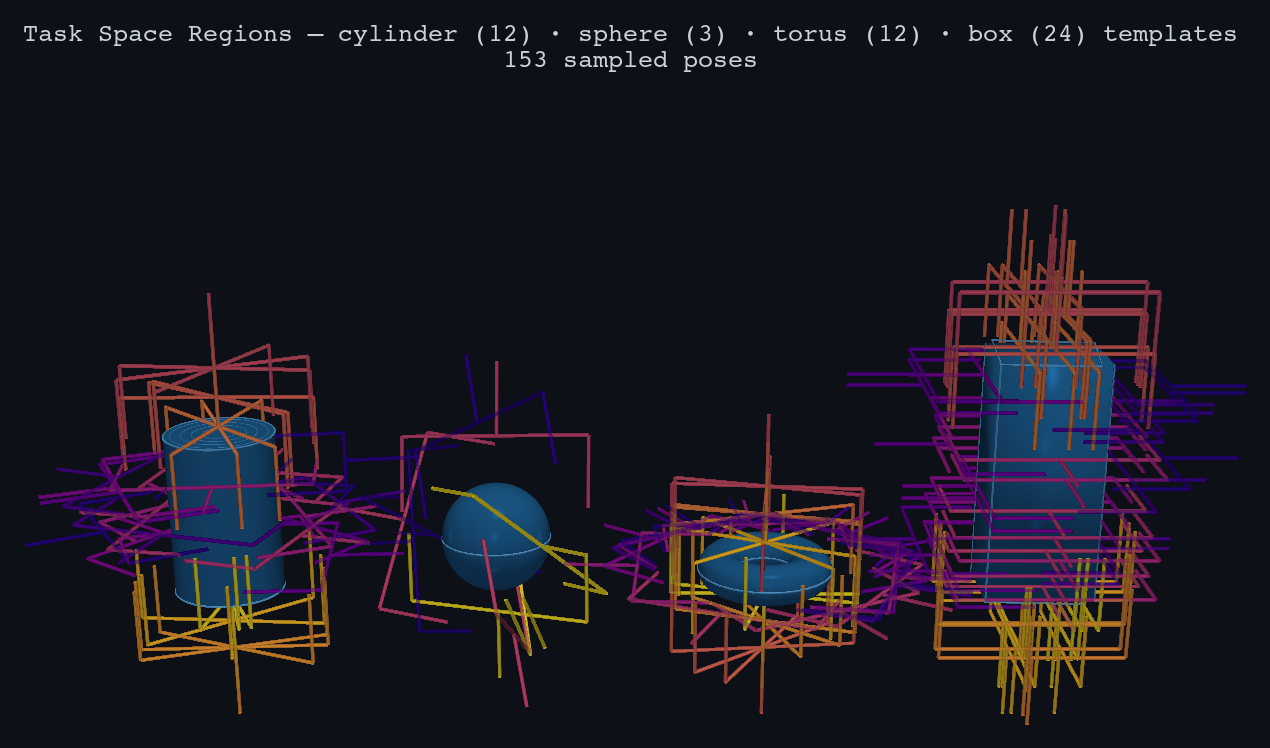
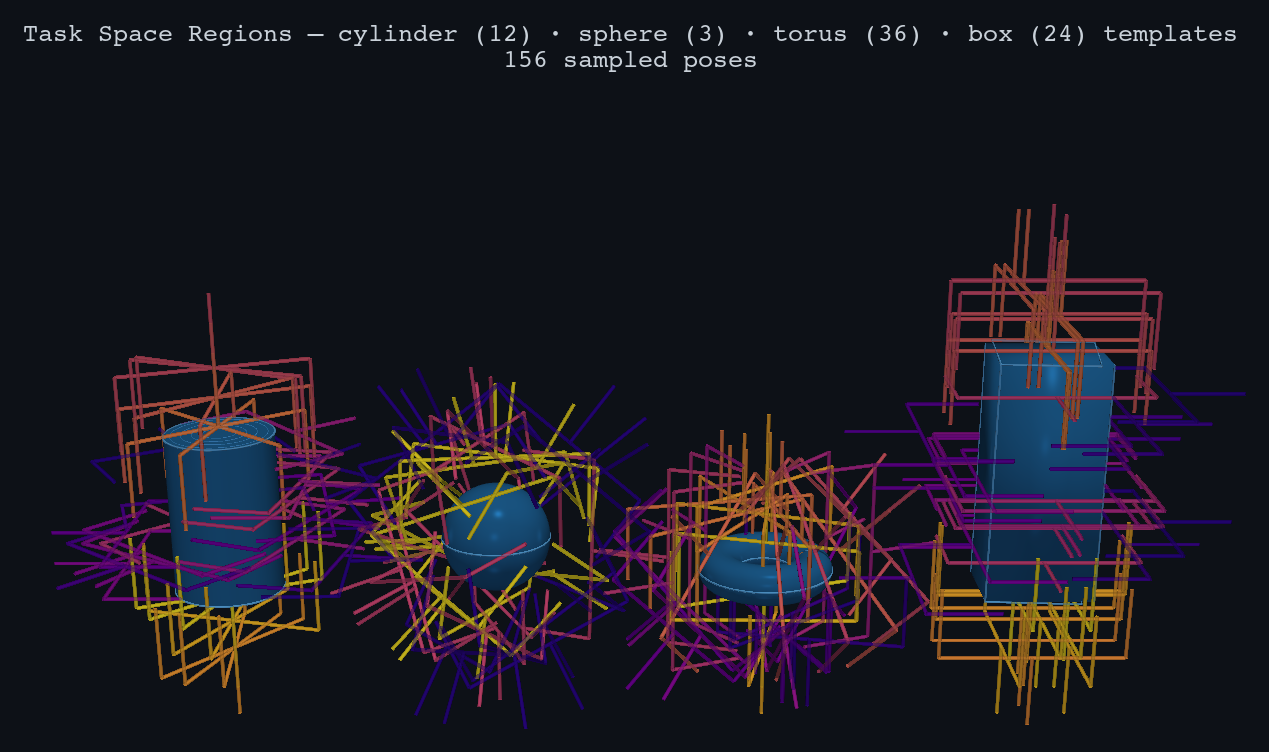
grasp_torus_side: rework depth range to cover full tube cross-section
Depth range now spans from fingertips at the tube centerline (shallowest)
to fingertips at the inner tube surface (deepest), matching the cylinder
grasp philosophy. Palm-hits-outer-surface bound preserved via min().

Returns [] when finger_length <= tube_radius (finger too short to reach
tube centerline from outside).

- d_shallow = tube_radius (fingertips at tube center)
- d_deep    = min(2*tube_radius, finger_length) (inner surface or palm limit)
- Removed clearance from depth bounds (preshape still uses clearance)
- Add guard: return [] if d_shallow >= d_deep
- Add tests pinning both depth endpoints via Tw_e geometry at α=0
- Fix docstrings in parallel_jaw.py and base.py

diff --git a/src/tsr/hands/parallel_jaw.py b/src/tsr/hands/parallel_jaw.py
@@ -720,13 +720,18 @@ class ParallelJawGripper(GripperBase):
             tz =     (r + fl − d) · sin α   (height above equatorial plane)
         z_EE = (−cos α, 0, −sin α)   (points toward tube center)
 
+        Depth range (fingertip distance from tube center = |ro_minor − fl|):
+            depth 1/k : fingertips at the tube center
+            depth k/k : fingertips at the inner tube surface (or palm at outer surface)
+
         Args:
             n_minor:   Discrete approach angles around the tube cross-section
                        (default 5: evenly spaced in [−π/2, +π/2]).
             clearance: Safety buffer [m]. Defaults to 10% of finger_length.
 
         Returns 2*k*n_minor TSRTemplates. Returns [] if preshape ≤ tube
-        diameter. Raises ValueError for invalid geometry.
+        diameter or finger_length ≤ tube_radius (finger too short to reach
+        tube centerline). Raises ValueError for invalid geometry.
         """
         if clearance is None:
             clearance = 0.1 * self.finger_length
@@ -754,8 +759,13 @@ class ParallelJawGripper(GripperBase):
             [angle_range[0], angle_range[1]],  # yaw: full azimuthal freedom
         ])
 
-        approach_max = min(self.finger_length, tube_radius) - clearance
-        depths = np.linspace(clearance, approach_max, max(k, 1))
+        # Start: fingertips at the tube center (requires finger_length >= tube_radius).
+        # End:   fingertips at the inner tube surface, or palm at outer surface.
+        d_shallow = tube_radius
+        d_deep    = min(2 * tube_radius, self.finger_length)
+        if d_shallow >= d_deep:
+            return []   # finger too short to reach tube centerline
+        depths = np.linspace(d_shallow, d_deep, max(k, 1))
         minor_angles = np.linspace(-np.pi / 2, np.pi / 2, max(n_minor, 1))
 
         common = dict(

diff --git a/tests/tsr/hands/test_torus_grasp.py b/tests/tsr/hands/test_torus_grasp.py
@@ -131,6 +131,28 @@ class TestGraspTorusSide(unittest.TestCase):
         with self.assertRaises(ValueError):
             self.gripper.grasp_torus_side(SR, Sr, preshape=MA + 0.001)
 
+    def test_returns_empty_when_finger_too_short_to_reach_centerline(self):
+        # finger_length must be > tube_radius to reach the tube center from outside
+        short_gripper = ParallelJawGripper(finger_length=Sr - 0.001, max_aperture=MA)
+        ts = short_gripper.grasp_torus_side(SR, Sr)
+        self.assertEqual(ts, [])
+
+    def test_side_depth_shallow_fingertip_at_tube_center(self):
+        """Shallowest depth (d=tube_radius): fingertip exactly at tube center."""
+        # k=2, n_minor=3 → α=0 block at idx 4-7; shallow=4,5
+        ts = self.gripper.grasp_torus_side(SR, Sr, k=2, n_minor=3)
+        for t in ts[4:6]:
+            ro_minor = t.Tw_e[0, 3] - SR
+            np.testing.assert_allclose(ro_minor - FL, 0., atol=1e-10)
+
+    def test_side_depth_deep_fingertip_at_inner_surface(self):
+        """Deepest depth (d=2*tube_radius): fingertip at inner tube surface."""
+        # k=2, n_minor=3 → α=0 block at idx 4-7; deep=6,7
+        ts = self.gripper.grasp_torus_side(SR, Sr, k=2, n_minor=3)
+        for t in ts[6:8]:
+            ro_minor = t.Tw_e[0, 3] - SR
+            np.testing.assert_allclose(ro_minor - FL, -Sr, atol=1e-10)
+
     def test_raises_for_invalid_torus(self):
         with self.assertRaises(ValueError):
             self.gripper.grasp_torus_side(0.01, 0.02)  # tube_r >= torus_r

diff --git a/src/tsr/hands/base.py b/src/tsr/hands/base.py
@@ -552,7 +552,8 @@ class GripperBase(ABC):
             angle_range:   Yaw freedom (default full 360°).
 
         Returns:
-            List of 2*k*n_minor TSRTemplates. Empty if preshape cannot span tube.
+            List of 2*k*n_minor TSRTemplates. Empty if preshape cannot span
+            the tube or finger_length ≤ tube_radius.
         """
         raise NotImplementedError(
             f"{type(self).__name__} does not implement grasp_torus_side"
